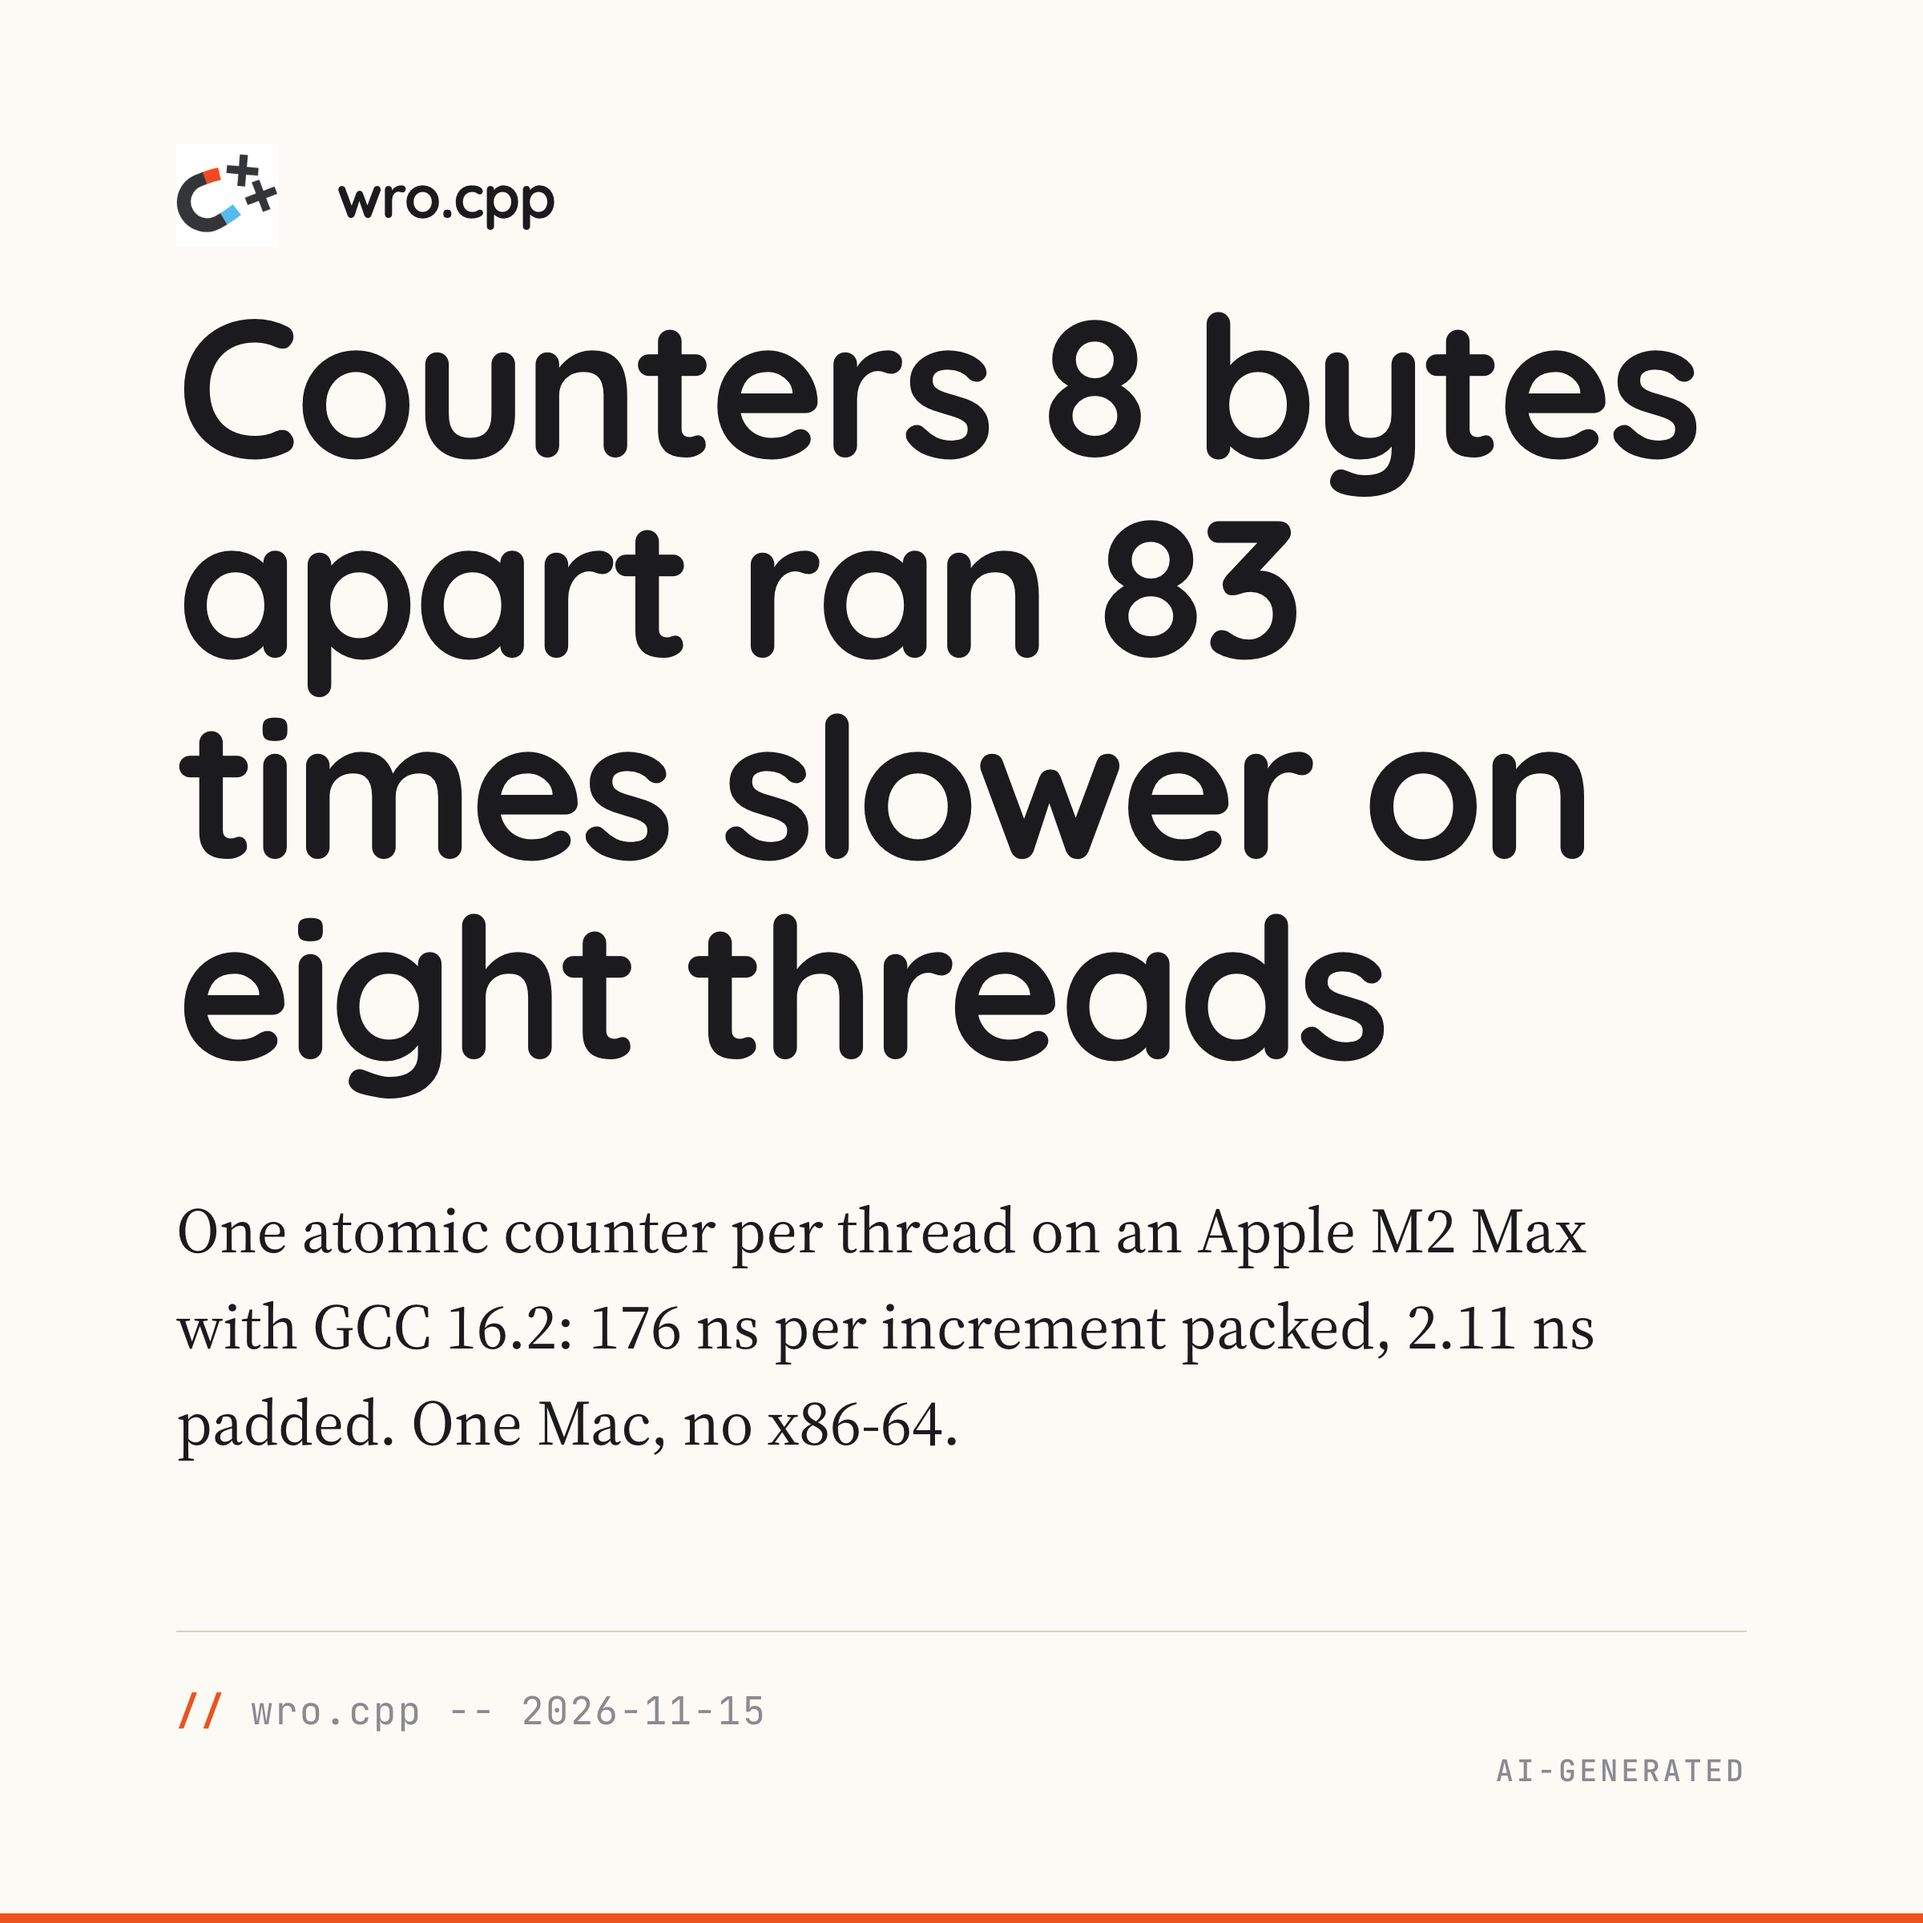
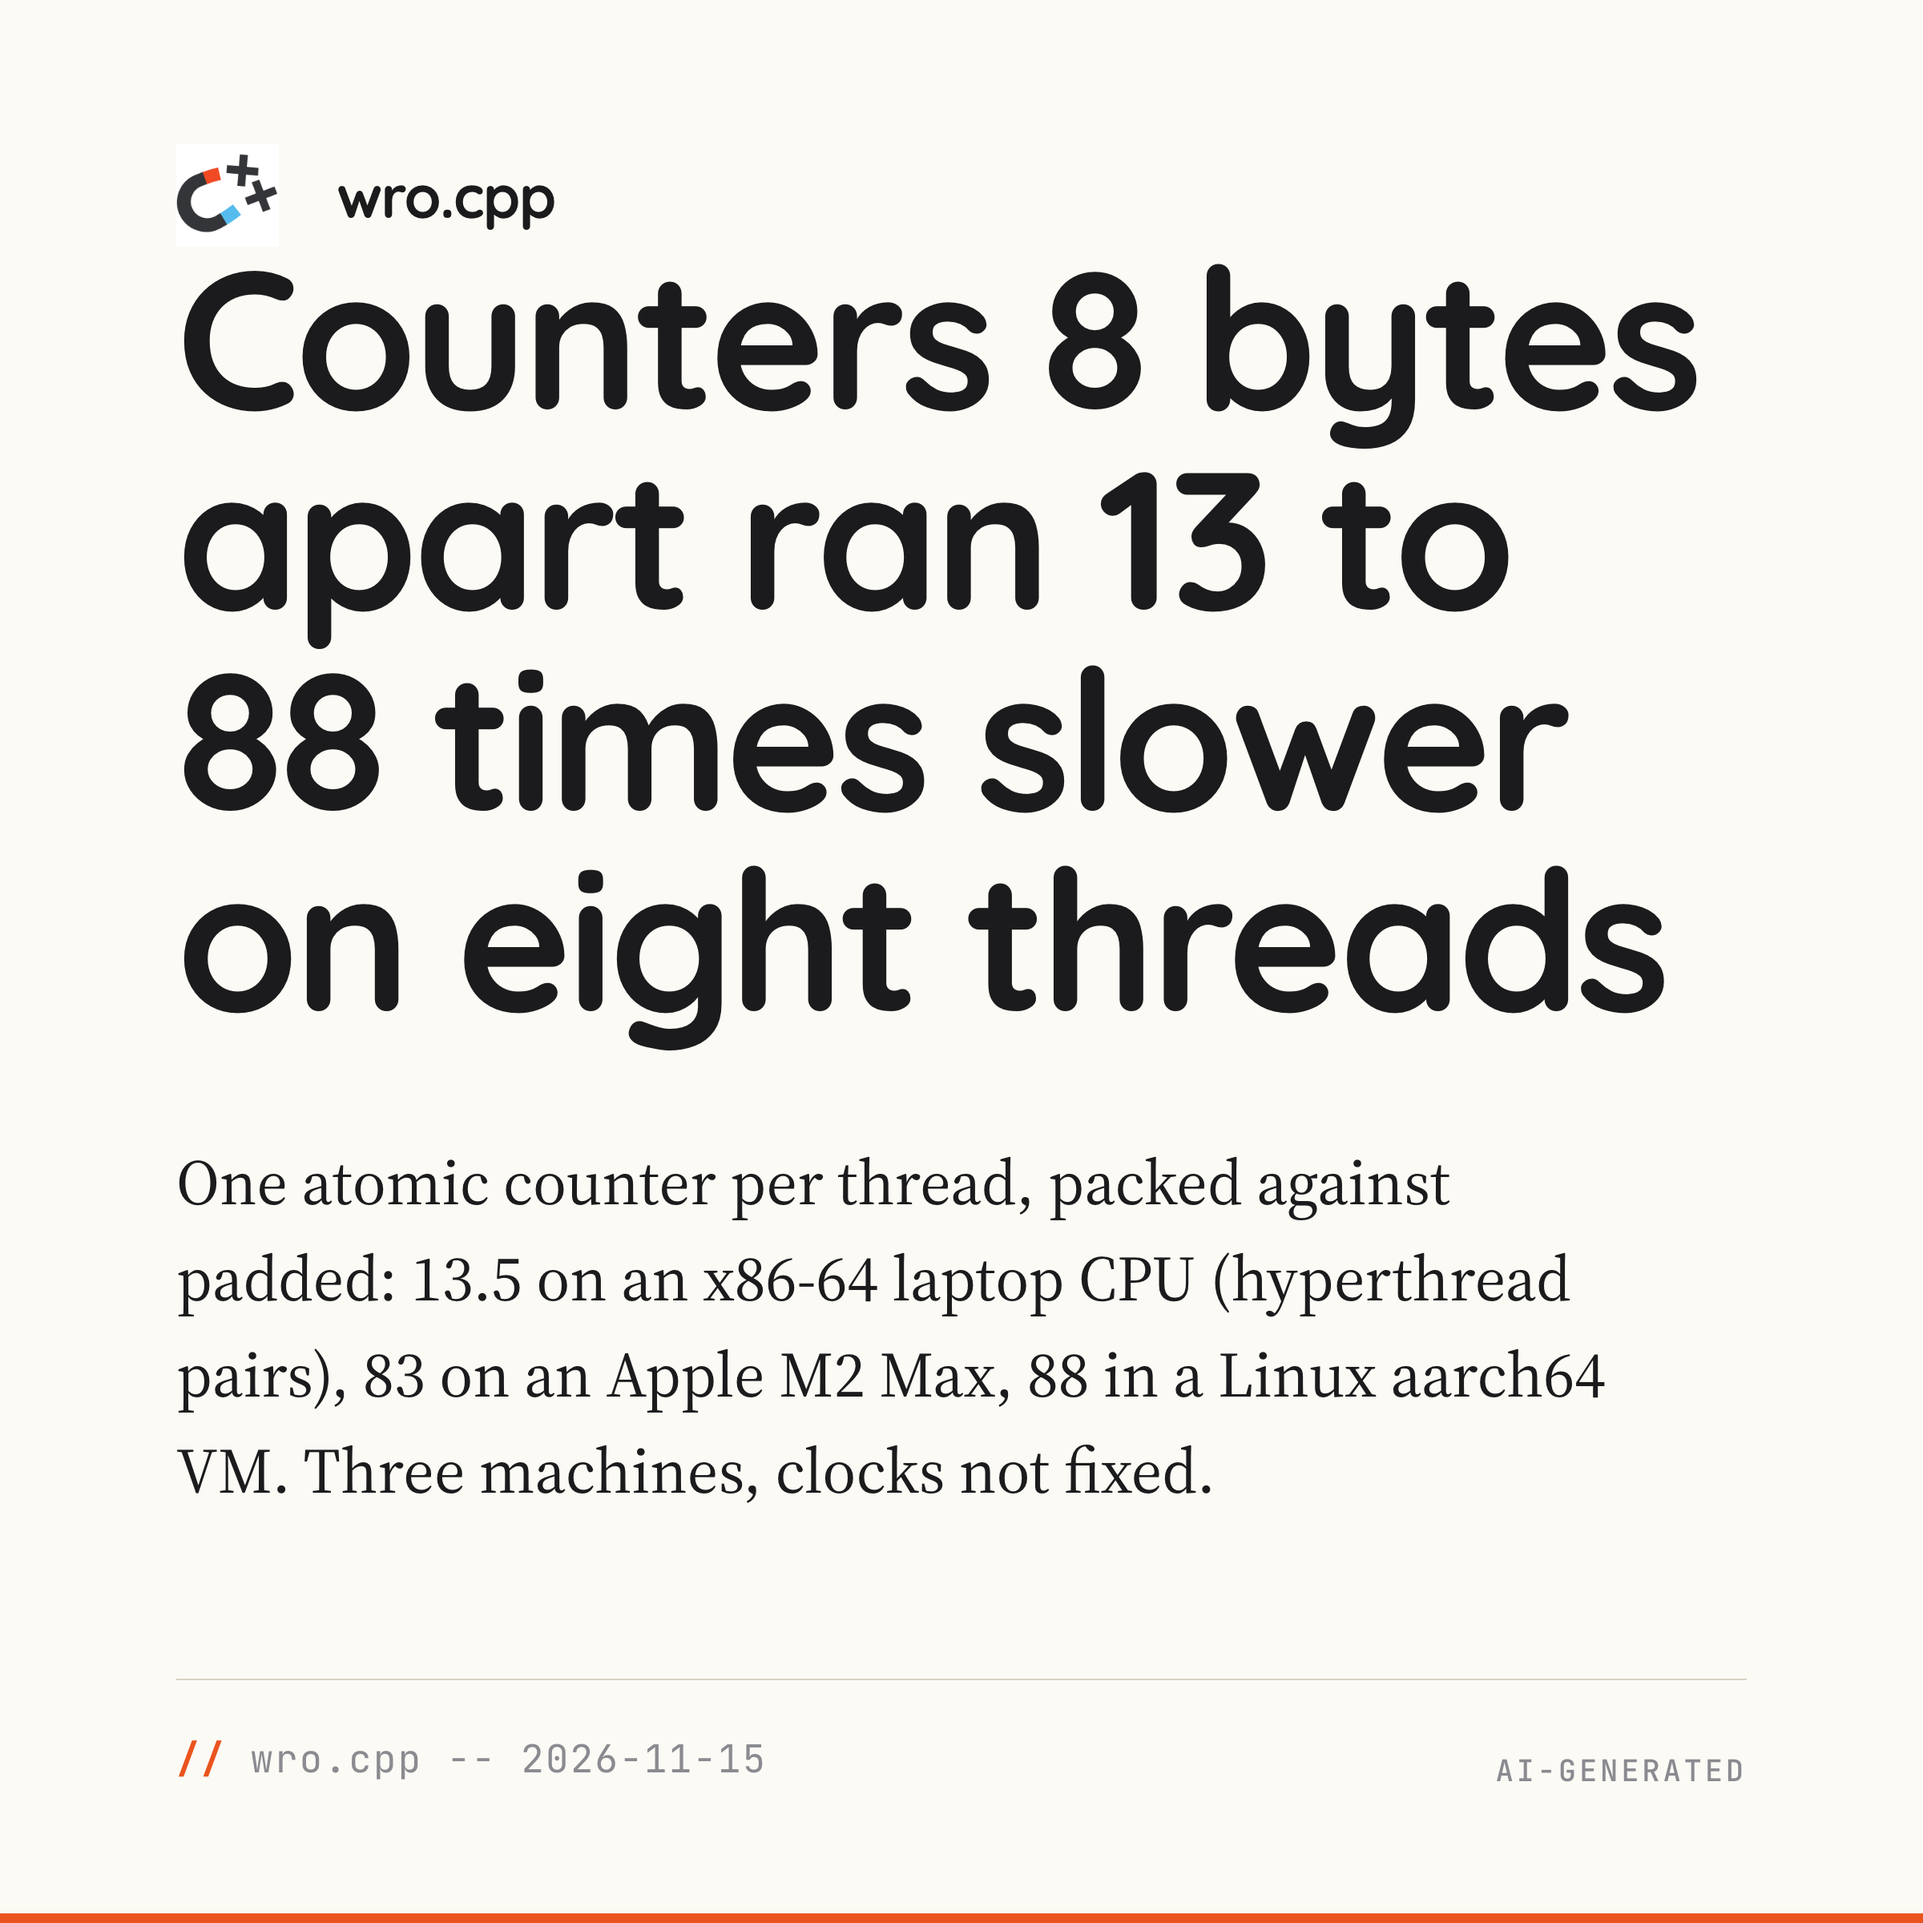
feat(social): card and captions for the three-machine false sharing result
The headline now says 13 to 88 times, the range of the three eight-thread
medians (13.5 x86-64 with hyperthread pairs, 83 M2 Max, 88 Docker aarch64),
instead of the M2 Max figure alone. Cards re-rendered, OG image refreshed.

Claude-Session: https://claude.ai/code/session_01BTCmkp4nQKAhWT8TGXF9KX

diff --git a/social/facebook/measuring-false-sharing-cost/index.html b/social/facebook/measuring-false-sharing-cost/index.html
@@ -23,6 +23,6 @@
   </defs>
 </svg>
 
-<section class="card card-insight dark"><div class="grid-bg"></div><div class="glow"></div><div class="insight-content"><h1>Counters 8 bytes apart ran 83 times slower on eight threads</h1><p>One atomic counter per thread on an Apple M2 Max with GCC 16.2: 176 ns per increment packed, 2.11 ns padded. One Mac, no x86-64.</p><div class="insight-citation">wro.cpp -- 2026-11-15</div></div><div class="logo-watermark top-left"><svg viewBox="0 0 512 512" aria-hidden="true"><use href="#scudo-logo"/></svg><span class="logo-wordmark">ScudoAI</span></div><div class="ai-badge">AI-generated</div></section>
+<section class="card card-insight dark"><div class="grid-bg"></div><div class="glow"></div><div class="insight-content"><h1>Counters 8 bytes apart ran 13 to 88 times slower on eight threads</h1><p>One atomic counter per thread, packed against padded: 13.5 on an x86-64 laptop CPU (hyperthread pairs), 83 on an Apple M2 Max, 88 in a Linux aarch64 VM. Three machines, clocks not fixed.</p><div class="insight-citation">wro.cpp -- 2026-11-15</div></div><div class="logo-watermark top-left"><svg viewBox="0 0 512 512" aria-hidden="true"><use href="#scudo-logo"/></svg><span class="logo-wordmark">ScudoAI</span></div><div class="ai-badge">AI-generated</div></section>
 </body>
 </html>

diff --git a/social/linkedin/measuring-false-sharing-cost/index.html b/social/linkedin/measuring-false-sharing-cost/index.html
@@ -23,6 +23,6 @@
   </defs>
 </svg>
 
-<section class="card card-insight dark"><div class="grid-bg"></div><div class="glow"></div><div class="insight-content"><h1>Counters 8 bytes apart ran 83 times slower on eight threads</h1><p>One atomic counter per thread on an Apple M2 Max with GCC 16.2: 176 ns per increment packed, 2.11 ns padded. One Mac, no x86-64.</p><div class="insight-citation">wro.cpp -- 2026-11-15</div></div><div class="logo-watermark top-left"><svg viewBox="0 0 512 512" aria-hidden="true"><use href="#scudo-logo"/></svg><span class="logo-wordmark">ScudoAI</span></div><div class="ai-badge">AI-generated</div></section>
+<section class="card card-insight dark"><div class="grid-bg"></div><div class="glow"></div><div class="insight-content"><h1>Counters 8 bytes apart ran 13 to 88 times slower on eight threads</h1><p>One atomic counter per thread, packed against padded: 13.5 on an x86-64 laptop CPU (hyperthread pairs), 83 on an Apple M2 Max, 88 in a Linux aarch64 VM. Three machines, clocks not fixed.</p><div class="insight-citation">wro.cpp -- 2026-11-15</div></div><div class="logo-watermark top-left"><svg viewBox="0 0 512 512" aria-hidden="true"><use href="#scudo-logo"/></svg><span class="logo-wordmark">ScudoAI</span></div><div class="ai-badge">AI-generated</div></section>
 </body>
 </html>

diff --git a/social/linkedin/measuring-false-sharing-cost/caption.md b/social/linkedin/measuring-false-sharing-cost/caption.md
@@ -1,13 +1,13 @@
-# Measuring how much false sharing costs a counter on Apple silicon
+# Measuring what false sharing costs a counter on three machines
 
 ## Body
-Eight threads, each incrementing its own atomic counter. With the counters packed side by side, one increment took 176 ns. With each counter padded to its own block it took 2.11 ns. That is the same loop on an Apple M2 Max with GCC 16.2.
+Eight threads, each incrementing its own atomic counter. With the counters packed side by side, one increment took 176 ns on an Apple M2 Max with GCC 16.2. With each counter padded to its own block it took 2.11 ns. That is 83 times. The same loop ran 88 times slower in a Linux aarch64 Docker VM on that Mac, and 13.5 times slower on an x86-64 laptop CPU, where eight threads means hyperthread pairs.
 
 The post measures write contention from the ground up. Counters packed, padded to the interference size, padded to 128 and to 64 bytes, one shared counter, thread_local, and a stack local variable merged at the end. Every cell is 11 runs with the median, minimum, maximum and coefficient of variation, and the machine, flags and load are listed beside the numbers.
 
-Three things I did not expect. Padding to 64 bytes was not enough on this chip, which reports a 128-byte cache line. One shared counter cost as much as the packed layout. And a thread_local counter shared cache lines between threads on macOS with GCC 16.2, while it did not in a Linux aarch64 Docker VM on the same Mac.
+Three things I did not expect. Padding to 64 bytes was not enough on the Mac, which reports a 128-byte cache line. On x86-64 the interference size is 64, and that gap did not appear. One shared counter cost as much as the packed layout. And a thread_local counter shared cache lines between threads on macOS with GCC 16.2, while it did not in a Linux aarch64 Docker VM on the same Mac.
 
-One Mac that was not quiet, no x86-64 numbers, and a list of what was not tested. Compiler Explorer is used only for the layout and correctness check, never for timings.
+Three machines with the clock not fixed on any of them, a Mac that was not quiet, a shared x86-64 host with a load-average guard, and a list of what was not tested. Compare the ratios, not the nanoseconds. Compiler Explorer is used only for the layout and correctness check, never for timings.
 
 https://wrocpp.github.io/posts/measuring-false-sharing-cost/
 
@@ -15,7 +15,7 @@ https://wrocpp.github.io/posts/measuring-false-sharing-cost/
 #cpp #performance #concurrency #atomics #wrocpp
 
 ## Alt-text
-Cream wro.cpp card with the magnet logo. Headline reads "Counters 8 bytes apart ran 83 times slower on eight threads" with a subtitle saying one atomic counter per thread on an Apple M2 Max with GCC 16.2 took 176 ns per increment packed and 2.11 ns padded, on one Mac with no x86-64 numbers. Citation footer: wro.cpp, 2026-11-15.
+Cream wro.cpp card with the magnet logo. Headline reads "Counters 8 bytes apart ran 13 to 88 times slower on eight threads" with a subtitle saying one atomic counter per thread, packed against padded to the interference size, ran 13.5 times slower on an x86-64 laptop CPU using hyperthread pairs, 83 times on an Apple M2 Max and 88 times in a Linux aarch64 VM, on three machines with clocks not fixed. Citation footer: wro.cpp, 2026-11-15.
 
 ## Suggested post time
 Sunday 2026-11-15, 08:00 UTC (09:00 CET)

diff --git a/social/facebook/measuring-false-sharing-cost/caption.md b/social/facebook/measuring-false-sharing-cost/caption.md
@@ -1,7 +1,7 @@
-# Measuring how much false sharing costs a counter on Apple silicon
+# Measuring what false sharing costs a counter on three machines
 
 ## Body
-Eight threads, each incrementing its own atomic counter: 176 ns per increment when the counters sit side by side, 2.11 ns when each is padded to its own block. Apple M2 Max, GCC 16.2. The post also measures 64 and 128 byte padding, one shared counter and thread_local counters, with the machine and load listed. One Mac, no x86-64 numbers.
+Eight threads, each incrementing its own atomic counter: 176 ns per increment when the counters sit side by side, 2.11 ns when each is padded to its own block. That is 83 times on an Apple M2 Max with GCC 16.2, 88 times in a Linux aarch64 Docker VM, and 13.5 times on an x86-64 laptop CPU with hyperthread pairs. The post also measures 64 and 128 byte padding, one shared counter and thread_local counters, with each machine and its load listed.
 
 https://wrocpp.github.io/posts/measuring-false-sharing-cost/
 
@@ -9,7 +9,7 @@ https://wrocpp.github.io/posts/measuring-false-sharing-cost/
 #cpp #performance #concurrency #wrocpp
 
 ## Alt-text
-Cream wro.cpp card with the magnet logo. Headline reads "Counters 8 bytes apart ran 83 times slower on eight threads" with a subtitle saying one atomic counter per thread on an Apple M2 Max with GCC 16.2 took 176 ns per increment packed and 2.11 ns padded, on one Mac with no x86-64 numbers. Citation footer: wro.cpp, 2026-11-15.
+Cream wro.cpp card with the magnet logo. Headline reads "Counters 8 bytes apart ran 13 to 88 times slower on eight threads" with a subtitle saying one atomic counter per thread, packed against padded to the interference size, ran 13.5 times slower on an x86-64 laptop CPU using hyperthread pairs, 83 times on an Apple M2 Max and 88 times in a Linux aarch64 VM, on three machines with clocks not fixed. Citation footer: wro.cpp, 2026-11-15.
 
 ## Suggested post time
 Sunday 2026-11-15, 08:00 UTC (09:00 CET)

diff --git a/social/facebook/measuring-false-sharing-cost/content.md b/social/facebook/measuring-false-sharing-cost/content.md
@@ -5,8 +5,8 @@ template: social/linkedin-post
 ::::post{type=insight theme=dark logo=top-left}
 
 :::insight{citation="wro.cpp -- 2026-11-15"}
-# Counters 8 bytes apart ran 83 times slower on eight threads
-One atomic counter per thread on an Apple M2 Max with GCC 16.2: 176 ns per increment packed, 2.11 ns padded. One Mac, no x86-64.
+# Counters 8 bytes apart ran 13 to 88 times slower on eight threads
+One atomic counter per thread, packed against padded: 13.5 on an x86-64 laptop CPU (hyperthread pairs), 83 on an Apple M2 Max, 88 in a Linux aarch64 VM. Three machines, clocks not fixed.
 :::
 
 ::::

diff --git a/social/linkedin/measuring-false-sharing-cost/content.md b/social/linkedin/measuring-false-sharing-cost/content.md
@@ -5,8 +5,8 @@ template: social/linkedin-post
 ::::post{type=insight theme=dark logo=top-left}
 
 :::insight{citation="wro.cpp -- 2026-11-15"}
-# Counters 8 bytes apart ran 83 times slower on eight threads
-One atomic counter per thread on an Apple M2 Max with GCC 16.2: 176 ns per increment packed, 2.11 ns padded. One Mac, no x86-64.
+# Counters 8 bytes apart ran 13 to 88 times slower on eight threads
+One atomic counter per thread, packed against padded: 13.5 on an x86-64 laptop CPU (hyperthread pairs), 83 on an Apple M2 Max, 88 in a Linux aarch64 VM. Three machines, clocks not fixed.
 :::
 
 ::::
